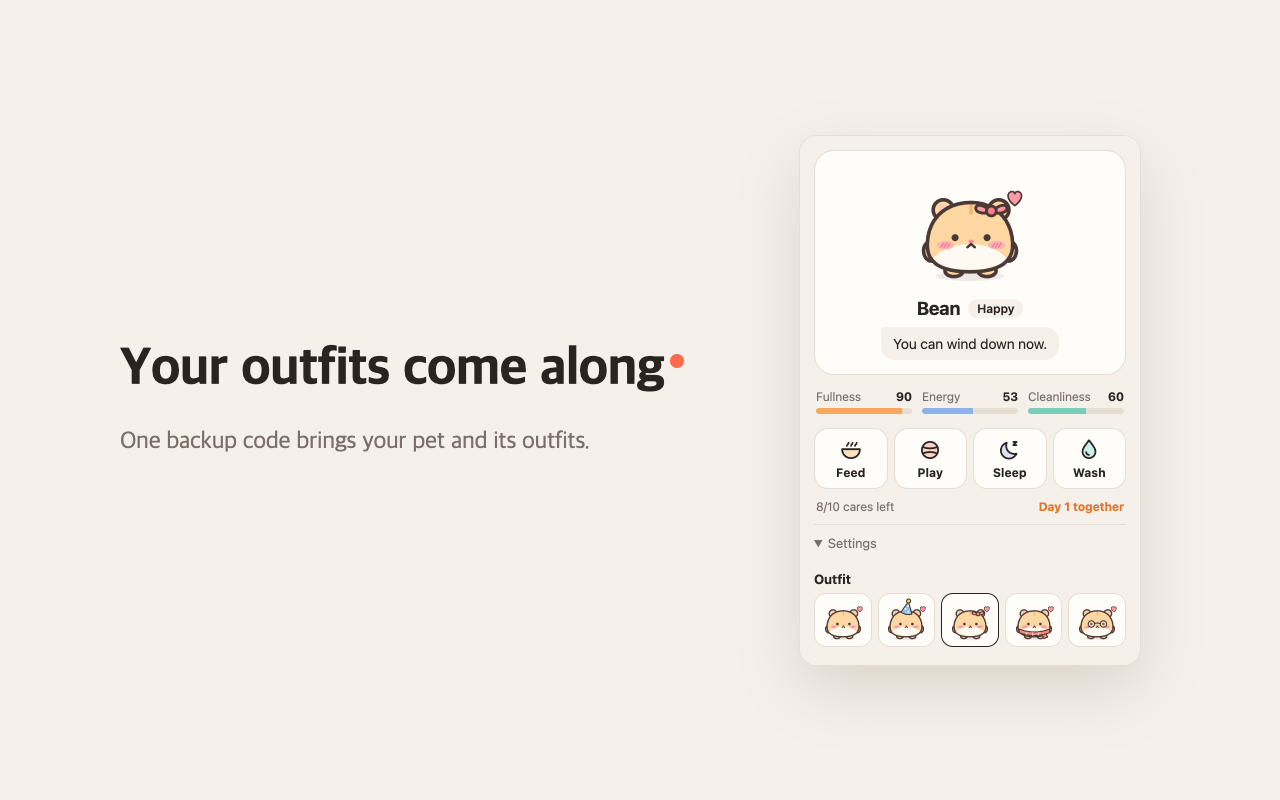
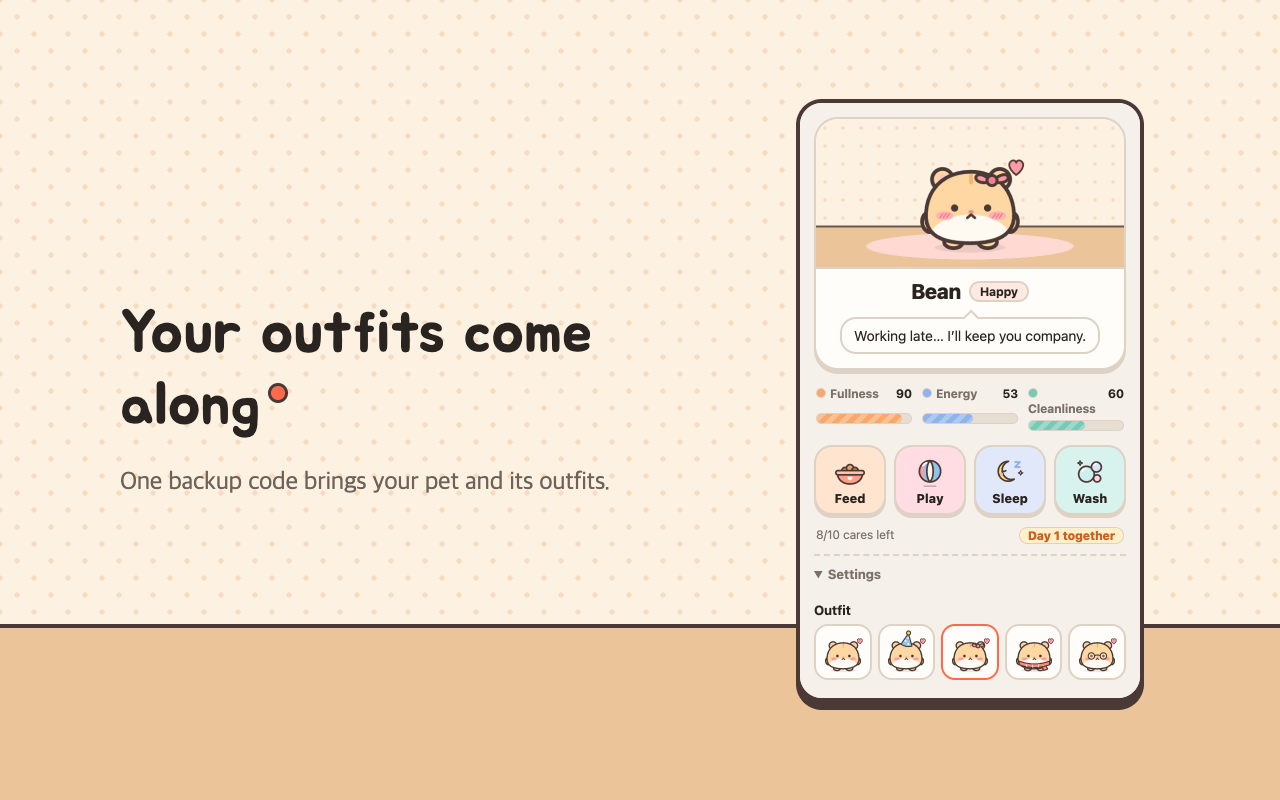
chore(store): reshoot Web Store images in the new design
The store screenshots and promo tiles still showed the old popup. Reshot
all eight (ko/en care, outfit, adopt at 1280x800; tiles at 440x280) from
the real extension, and restyled the frame around the popup to match the
website: dotted wallpaper, wood floor, Jua headings, sticker outline.
Jua is fetched only while rendering the images; the extension itself
still makes no network requests.

While shooting:
- dropped the popup tilt, which blurred its text
- the red title dot now stays glued to the last word
- the popup name field used the browser's blue focus ring; it now gets
  the accent border (real users see this too)

Also refreshed the stale macOS screenshot baselines (*-darwin.png) so
local e2e runs are clean; CI's Linux baselines were updated in #20.

diff --git a/extension/static/popup.css b/extension/static/popup.css
@@ -317,6 +317,11 @@ button:disabled { cursor: not-allowed; filter: grayscale(0.6); opacity: 0.5; }
   text-align: center;
 }
 
+.adopt__name:focus {
+  border-color: var(--accent);
+  outline: none;
+}
+
 .primary {
   background: var(--accent);
   border: 2.5px solid var(--ink);
